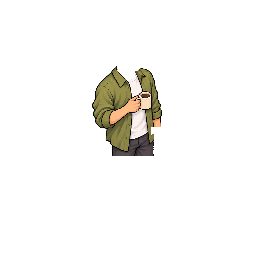
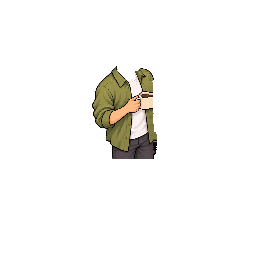
Skeleton rig: the free arm cut along the art, as upper arm and forearm
- The free arm is two parts now: the sleeve (upper-arm.free, shoulder to
  elbow) traced along the art's own lines (outline, the seam down the
  inside of the sleeve, the cuff fold), and the forearm (forearm.free:
  cuff, skin, hand), which swings at the elbow.
- Nothing of the arm stays on the torso any more (that copy stood still as
  the arm swung); the shirt the art never drew under the arm is filled in
  from its neighbours, and the sleeve overlaps the cuff 3px so the elbow
  never opens.
- The torso keeps a 3px strip of the trouser tops under its hem, so a leg
  swinging away no longer shows a gap there (the old frames had these).

Changed region(s): [[0.4375, 0.2857, 0.6562, 0.5714]]

diff --git a/art/avatar-rig/skeleton/cut_green.py b/art/avatar-rig/skeleton/cut_green.py
@@ -78,6 +78,32 @@ def split_head(body: np.ndarray, neck_y: float):
     return head, solid & ~head
 
 
+# The free arm's sleeve, traced by hand along the art's own lines (outline, the seam drawn down
+# the inside of the sleeve, the cuff's fold), as the earlier rig traced the shoes: colour can't
+# tell a sleeve from the shirt it's sewn to, or a seam from a fold.
+SLEEVE_FRONT = [(150, 78), (153, 79), (156, 84), (158, 90), (160, 98), (162, 106), (164, 113), (162, 119), (152, 119), (150, 110), (150, 90)]
+SLEEVE_BACK = [(107, 75), (112, 77), (110, 86), (111, 93), (113, 101), (116, 108), (118, 116), (112, 120), (100, 120), (99, 110), (100, 95), (102, 82)]
+
+
+def fill_under(body: np.ndarray, hole: np.ndarray, reach: int = 3) -> None:
+    """Paint in the part of `hole` that sits against the body (within `reach` px of it) with the
+    nearest body pixel's colour: the shirt the art never drew behind the arm, so the arm can
+    swing away from it without leaving a gap. In place."""
+    solid = body[:, :, 3] > 0
+    dist, (iy, ix) = distance_transform_edt(~solid, return_indices=True)
+    fill = hole & ~solid & (dist <= reach)
+    body[fill] = body[iy[fill], ix[fill]]
+
+
+def keep_under(body: np.ndarray, src: np.ndarray, taken: np.ndarray, reach: int = 3) -> None:
+    """Keep a strip of what was taken from the body (the trouser tops under the shirt's hem)
+    on it too, `reach` px deep, so a leg swinging away doesn't open a gap there. In place."""
+    solid = body[:, :, 3] > 0
+    dist = distance_transform_edt(~solid)
+    keep = taken & ~solid & (dist <= reach) & (src[:, :, 3] > 0)
+    body[keep] = src[keep]
+
+
 def legs_split(a, leg, knee_y, overlap, shin_bottom=None):
     """A whole trouser leg into thigh and shin, overlapping a little at the knee."""
     yy = np.mgrid[: a.shape[0], : a.shape[1]][0]
@@ -121,6 +147,17 @@ def front():
     arm = a.copy()
     arm[~am] = 0
     body[am & (yy > 126)] = 0
+    # the sleeve (shoulder to cuff), cut along the seam the art draws inside it
+    traced = poly(im.size, SLEEVE_FRONT) & (body[:, :, 3] > 0)
+    # the sleeve reaches 3px into the cuff, so the elbow stays covered as the forearm turns
+    sleeve_m = traced & (~am | (yy < 117))
+    sleeve = a.copy()
+    sleeve[~sleeve_m] = 0
+    hole = traced | am
+    body[hole] = 0  # nothing of the arm stays on the torso (it would stay put as the arm swings)
+    fill_under(body, hole)
+    # under the hem, keep the trouser tops so a swinging leg never shows a gap
+    keep_under(body, a, (regions[0] | regions[1]) & (a[:, :, 3] > 0) & (yy >= L["torsoOverlapY"]) & (yy < 175))
     # the head, cut along the art (hair, face, neck), so the torso can breathe under it
     NECK_Y = 82  # the neck joint: where the head turns and rides
     hm, tm = split_head(body, NECK_Y)
@@ -139,12 +176,13 @@ def front():
     }
     tn, sn = legs_split(a, legs[0], near["knee"][1], L["kneeOverlap"], L["nearShinBottom"])
     tf, sf = legs_split(a, legs[1], far["knee"][1], L["kneeOverlap"], L["farShinBottom"])
-    parts = {"head": head, "torso": torso, "arm.free": arm, "thigh.near": tn, "shin.near": sn, "foot.near": feet[0], "thigh.far": tf, "shin.far": sf, "foot.far": feet[1]}
+    parts = {"head": head, "torso": torso, "upper-arm.free": sleeve, "forearm.free": arm, "thigh.near": tn, "shin.near": sn, "foot.near": feet[0], "thigh.far": tf, "shin.far": sf, "foot.far": feet[1]}
     spec = [  # back to front: the body and its free arm, then the far leg, then the near leg
         # (the legs are drawn over the shirt's hem, as the approved frames have them)
         {"part": "torso", "kind": "segment", "from": "pelvis", "to": "neck"},
         {"part": "head", "kind": "follow", "at": "neck"},
-        {"part": "arm.free", "kind": "rigid", "at": "elbow.free"},
+        {"part": "upper-arm.free", "kind": "segment", "from": "shoulder.free", "to": "elbow.free"},
+        {"part": "forearm.free", "kind": "rigid", "at": "elbow.free"},
         {"part": "thigh.far", "kind": "segment", "from": "hip.far", "to": "knee.far"},
         {"part": "shin.far", "kind": "segment", "from": "knee.far", "to": "ankle.far"},
         {"part": "foot.far", "kind": "rigid", "at": "ankle.far"},
@@ -187,6 +225,14 @@ def back():
     arm = a.copy()
     arm[~armmask] = 0
     body[armmask & (yy >= 116)] = 0
+    traced = poly(im.size, SLEEVE_BACK) & (body[:, :, 3] > 0)
+    sleeve_m = traced & (~armmask | (yy < 110))
+    sleeve = a.copy()
+    sleeve[~sleeve_m] = 0
+    hole = traced | armmask
+    body[hole] = 0
+    fill_under(body, hole)
+    keep_under(body, a, (regions[0] | regions[1] | (yy >= 155)) & (a[:, :, 3] > 0) & (yy < 175) & ~armmask)
     NECK_Y = 80
     hm, tm = split_head(body, NECK_Y)
     head = body.copy()
@@ -204,7 +250,7 @@ def back():
     }
     tn, sn = legs_split(a, legs[0], near["knee"][1], 5)
     tf, sf = legs_split(a, legs[1], far["knee"][1], 5)
-    parts = {"head": head, "torso": torso, "arm.free": arm, "thigh.near": tn, "shin.near": sn, "foot.near": feet[0], "thigh.far": tf, "shin.far": sf, "foot.far": feet[1]}
+    parts = {"head": head, "torso": torso, "upper-arm.free": sleeve, "forearm.free": arm, "thigh.near": tn, "shin.near": sn, "foot.near": feet[0], "thigh.far": tf, "shin.far": sf, "foot.far": feet[1]}
     spec = [  # seen from behind: the legs first, then the body over them, the arm on top
         {"part": "thigh.far", "kind": "segment", "from": "hip.far", "to": "knee.far"},
         {"part": "shin.far", "kind": "segment", "from": "knee.far", "to": "ankle.far"},
@@ -214,7 +260,8 @@ def back():
         {"part": "foot.near", "kind": "rigid", "at": "ankle.near"},
         {"part": "torso", "kind": "segment", "from": "pelvis", "to": "neck"},
         {"part": "head", "kind": "follow", "at": "neck"},
-        {"part": "arm.free", "kind": "rigid", "at": "elbow.free"},
+        {"part": "upper-arm.free", "kind": "segment", "from": "shoulder.free", "to": "elbow.free"},
+        {"part": "forearm.free", "kind": "rigid", "at": "elbow.free"},
     ]
     save("back", parts, j, spec)
 

diff --git a/art/avatar-rig/skeleton/animations.py b/art/avatar-rig/skeleton/animations.py
@@ -27,7 +27,7 @@ def walk(view: str, frames: int = 8):
         phase = i / frames
         bob = WALK["bodyHeight"] * (1 - math.cos(WALK["hipSwing"] * math.cos(2 * math.pi * phase)))
         sway = WALK["bodySway"] * math.sin(2 * math.pi * phase)
-        f = {"offset": [sway, bob], "angles": {}, "turns": {"arm.free": ARM_SWING[view] * math.cos(2 * math.pi * phase)}}
+        f = {"offset": [sway, bob], "angles": {}, "turns": {"forearm.free": ARM_SWING[view] * math.cos(2 * math.pi * phase)}}
         for side in ("near", "far"):
             body = SIDES[view]["sides"][side]
             g = (phase + (0.0 if body == "right" else 0.5)) % 1  # right leg leads, left half a stride behind
